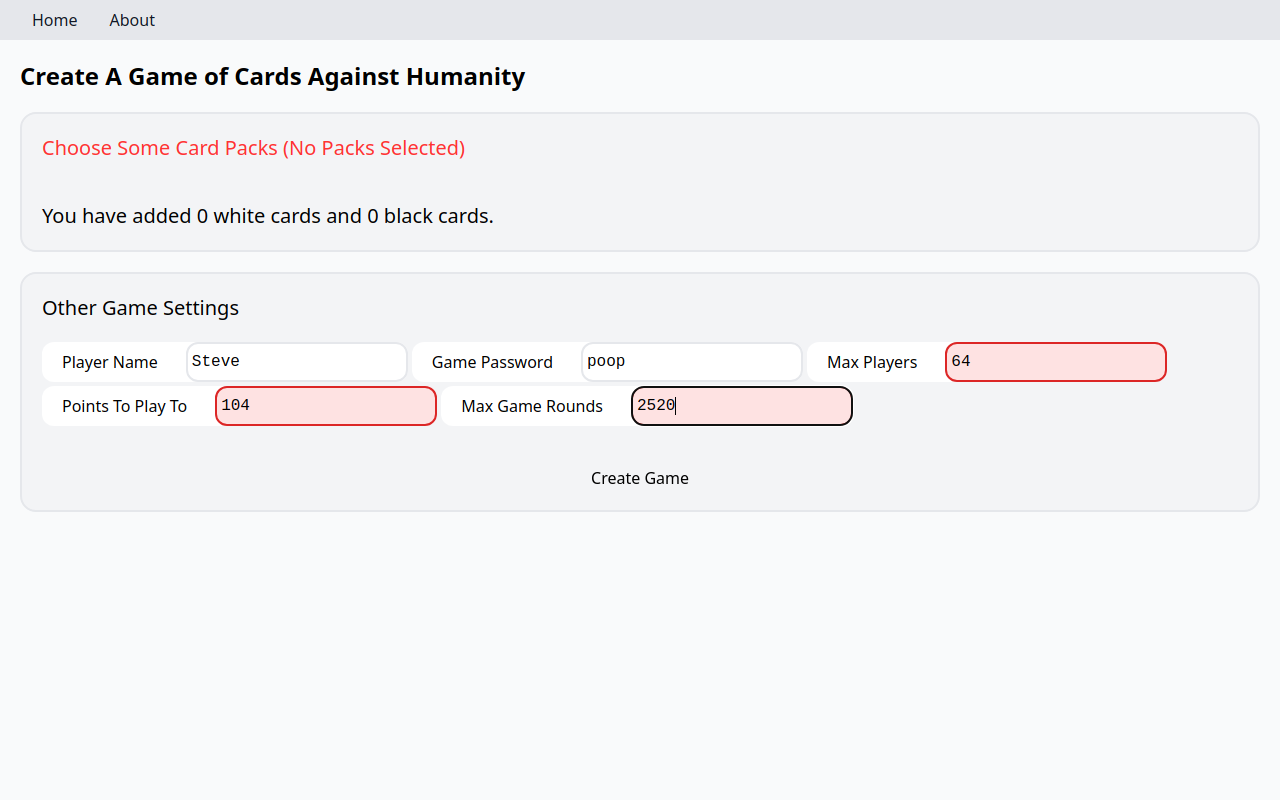
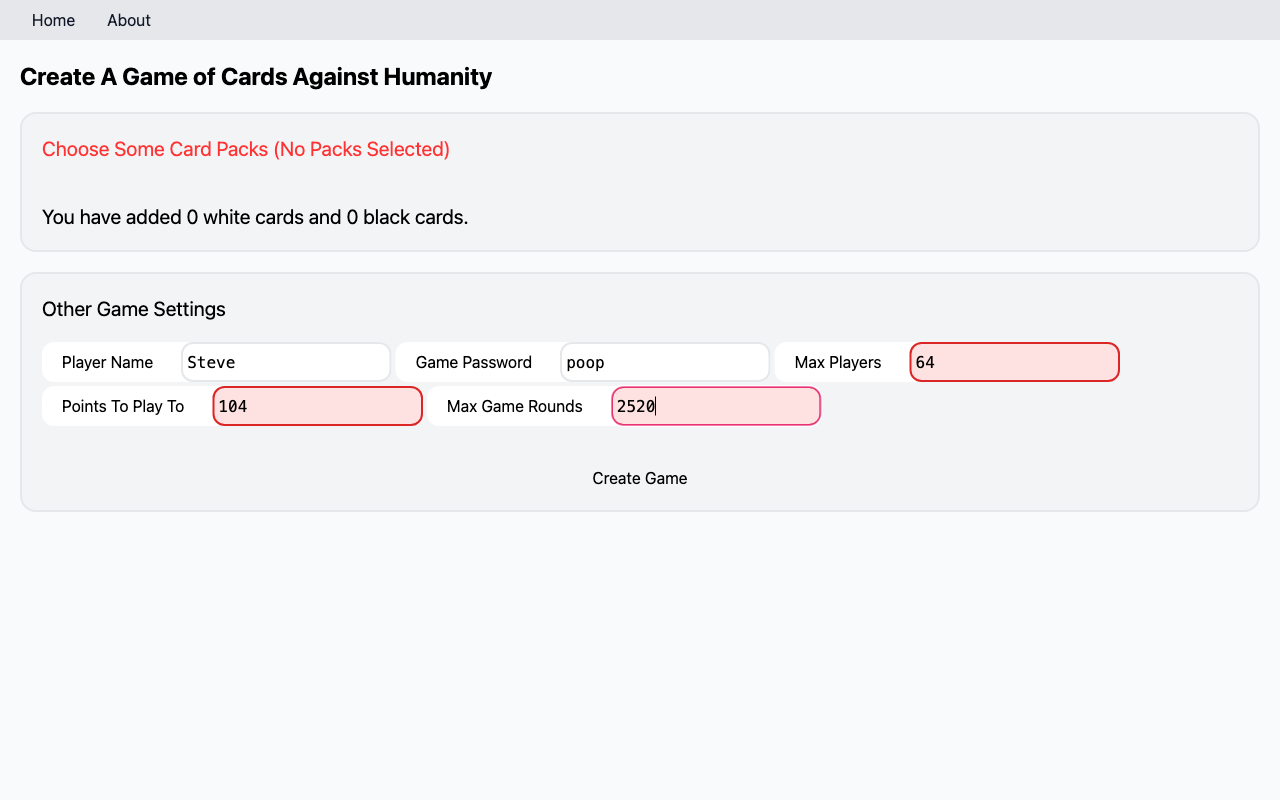
feat: use testify suite to kill services on test stop

diff --git a/e2e/service_starter_test.go b/e2e/service_starter_test.go
@@ -4,14 +4,11 @@ import (
 	"log"
 	"net/http"
 	"os/exec"
-	"sync"
+	"testing"
 	"time"
-)
 
-var lock sync.Mutex
-var started = false
-var backendProcess *exec.Cmd = exec.Command("../backend/backend")
-var frontendProcess *exec.Cmd = exec.Command("./e2e-start.sh")
+	"github.com/stretchr/testify/suite"
+)
 
 const frontendUrl = "http://localhost:3000/"
 
@@ -57,38 +54,54 @@ func waitForBackend() {
 	log.Println("Backend responded to poll")
 }
 
-func startFrontend() {
+type WithServicesSuite struct {
+	suite.Suite
+	backendProcess  *exec.Cmd
+	frontendProcess *exec.Cmd
+}
+
+func (s *WithServicesSuite) startFrontend() {
 	log.Println("Starting frontend")
-	err := frontendProcess.Start()
+	s.frontendProcess = exec.Command("./e2e-start.sh")
+	err := s.frontendProcess.Start()
 	if err != nil {
 		log.Fatalf("Cannot start frontend: %s", err)
 	}
 	log.Println("Started frontend")
 }
 
-func startBackend() {
+func (s *WithServicesSuite) startBackend() {
 	log.Println("Starting backend")
-	err := backendProcess.Start()
+	s.backendProcess = exec.Command("../backend/backend")
+	err := s.backendProcess.Start()
 	if err != nil {
 		log.Fatalf("Cannot start backend: %s", err)
 	}
 	log.Println("Started backend")
 }
 
-func StartService() {
-	lock.Lock()
-	defer lock.Unlock()
-	if started {
-		return
-	}
+func (s *WithServicesSuite) SetupSuite() {
+	log.Printf("Starting services")
+	s.startBackend()
+	s.startFrontend()
 
-	startBackend()
-	startFrontend()
-
-	started = true
-
+	log.Printf("Waiting for services to become ready")
 	waitForBackend()
 	waitForFrontend()
+}
+
+func (s *WithServicesSuite) TearDownSuite() {
+	log.Print("Shutting down test services")
+	if err := s.backendProcess.Process.Kill(); err != nil {
+		log.Printf("Cannot kill backend: %s", err)
+	}
+	if err := s.frontendProcess.Process.Kill(); err != nil {
+		log.Printf("Cannot kill frontend: %s", err)
+	}
+}
+
+func TestWithServicesSuite(t *testing.T) {
+	suite.Run(t, new(WithServicesSuite))
 }
 
 func GetBasePage() string {

diff --git a/e2e/home_page_test.go b/e2e/home_page_test.go
@@ -1,26 +1,22 @@
 package main
 
 import (
-	"testing"
-
 	"github.com/stretchr/testify/assert"
 )
 
-func TestHomePageRender(t *testing.T) {
-	t.Parallel()
+func (s *WithServicesSuite) TestHomePageRender() {
 	page := NewHomePage(GetBrowser())
-	assert.NotNil(t, page, "Page should render and not be nil")
+	assert.NotNil(s.T(), page, "Page should render and not be nil")
 	page.Page.MustScreenshotFullPage("../wiki/assets/home.png")
 }
 
-func TestClickCreateAGame(t *testing.T) {
-	t.Parallel()
+func (s *WithServicesSuite) TestClickCreateAGame() {
 	page := NewHomePage(GetBrowser())
 	createAGameButton := page.GetCreateGameButton()
-	assert.NotNil(t, createAGameButton, "Should find a create a game button")
+	assert.NotNil(s.T(), createAGameButton, "Should find a create a game button")
 
 	createAGameButton.MustClick()
 
 	page.Page.MustWaitStable()
-	assert.Equal(t, GetBasePage()+"create", page.Page.MustInfo().URL, "Should go to the create page on click")
+	assert.Equal(s.T(), GetBasePage()+"create", page.Page.MustInfo().URL, "Should go to the create page on click")
 }

diff --git a/e2e/create_game_page_test.go b/e2e/create_game_page_test.go
@@ -1,22 +1,18 @@
 package main
 
 import (
-	"testing"
-
 	"github.com/stretchr/testify/assert"
 )
 
-func TestCreateGamePageRender(t *testing.T) {
-	t.Parallel()
+func (s *WithServicesSuite) TestCreateGamePageRender() {
 	page := NewCreatePagePage(GetBrowser())
-	assert.NotNil(t, page, "Page should render and not be nil")
+	assert.NotNil(s.T(), page, "Page should render and not be nil")
 	page.Page.MustScreenshotFullPage("../wiki/assets/create_game.png")
 }
 
-func TestCreateGamePageDefaultInput(t *testing.T) {
-	t.Parallel()
+func (s *WithServicesSuite) TestCreateGamePageDefaultInput() {
 	page := NewCreatePagePage(GetBrowser())
-	assert.NotNil(t, page, "Page should render and not be nil")
+	assert.NotNil(s.T(), page, "Page should render and not be nil")
 	page.InsertDefaultValidSettings()
 	page.Page.MustScreenshotFullPage("../wiki/assets/create_game_default_input.png")
 }

diff --git a/e2e/chrome_driver.go b/e2e/chrome_driver.go
@@ -7,7 +7,6 @@ import (
 )
 
 func GetBrowser() *rod.Browser {
-	StartService()
 	return rod.New().MustConnect().Timeout(time.Second * 5)
 }
 
